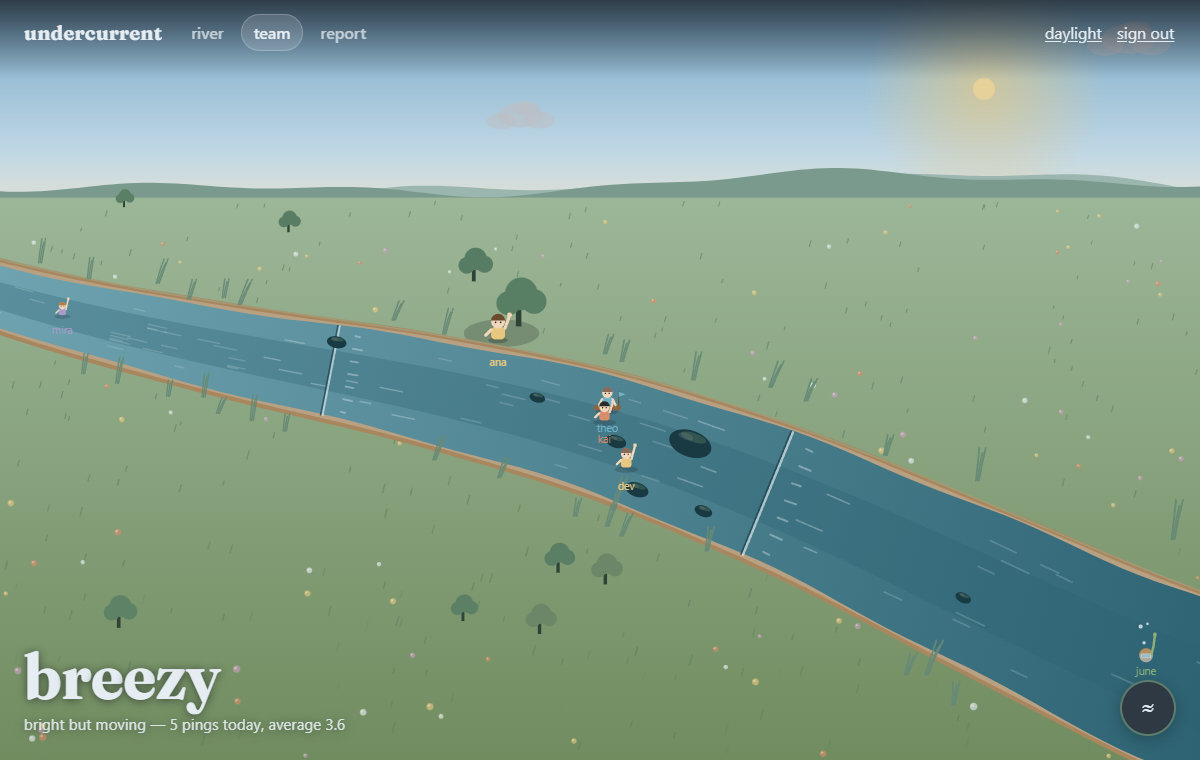
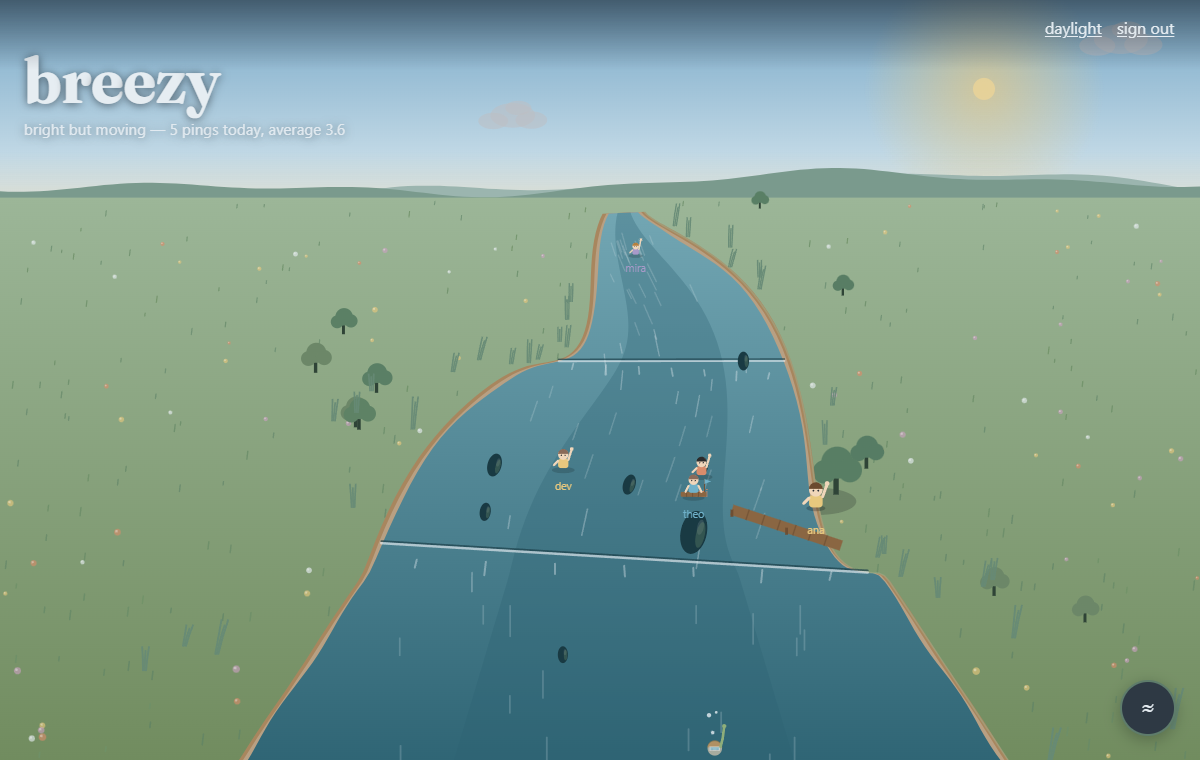
River toward the viewer: final form, dock, placement beside the panel
- Path generator: narrow at the horizon, wide at the bottom edge, eased
  depth drives scale and width; gentle meander confined to the upper
  65% with a sin-squared envelope so the offset banks never fold;
  foreground half-width capped by frame height.
- A small wooden dock off the right bank.
- Spots that would sit under the desktop panel move to the outer water
  beside it; upstream only as a last resort or on the phone sheet.
- Riverstone buttons read as stone in both themes; screenshots and
  notes refreshed.

diff --git a/src/river/RiverCanvas.tsx b/src/river/RiverCanvas.tsx
@@ -255,30 +255,36 @@ export default function RiverCanvas({
       const wind = Math.sin(t * 0.0011) * (0.3 + sev * 1.4) + sev * 0.9
 
       // --- the river path -------------------------------------------------
+      // The stream comes toward the viewer: a sliver at the horizon, wide at
+      // the bottom edge, meandering a little on the way down. Perspective is
+      // the eased `depth`, which also drives scale and width.
       const N = 80
       const path: Sample[] = []
-      // Where the stream ends: off the right edge normally; short of a side
-      // panel or bottom sheet when the layout has one.
-      const { rightInset, bottomInset } = layoutRef.current
-      const xEnd = rightInset > 0 ? w - rightInset + 24 : 1.06 * w
-      const bottomMargin = bottomInset > 0 ? bottomInset + 12 : h * (narrow ? 0.3 : 0.16)
+      const { bottomInset } = layoutRef.current
       for (let i = 0; i <= N; i++) {
         const u = i / N
+        const depth = u ** 1.15
+        // The meander lives in the narrow upper 65% and dies out smoothly
+        // (sin² has zero slope at its ends): an offset bank wider than the
+        // centerline's bend radius folds into a fin, so the wide foreground
+        // must run straight toward the viewer.
+        const envelope = Math.sin(Math.PI * Math.min(u / 0.65, 1)) ** 2
+        // gentle: the bend radius must stay larger than the bank offset
+        const meander =
+          (Math.sin(u * 3.2 + 0.6) * w * 0.05 + Math.sin(u * 7 + 2) * w * 0.012) * envelope
+        // foreground width scales with the frame but is capped by its height,
+        // so an ultra-wide screen doesn't become a delta
+        const hwMax = Math.min(w * 0.34, h * 0.55)
         path.push({
           u,
-          x: lerp(-0.06 * w, xEnd, u),
-          // narrow frames end the stream higher, clear of the scene caption
-          y:
-            horizon +
-            h * 0.07 +
-            Math.max(h * 0.25, h - horizon - bottomMargin) * u ** 1.08 +
-            Math.sin(u * 6.5 + 1.2) * h * 0.035,
+          x: w * 0.52 + meander,
+          y: horizon + h * 0.02 + (h - horizon + 30) * depth,
           tx: 0,
           ty: 0,
           nx: 0,
           ny: 0,
-          s: 0.55 + 0.7 * u,
-          hw: lerp(w * 0.022, w * 0.075, u) * (narrow ? 1.3 : 1),
+          s: 0.5 + 0.85 * depth,
+          hw: lerp(w * 0.012, hwMax, depth) * (narrow ? 1.15 : 1),
         })
       }
       for (let i = 0; i <= N; i++) {
@@ -309,6 +315,33 @@ export default function RiverCanvas({
           }
         }
         return { d: bd, sp: best }
+      }
+      // The stream runs under the panel/sheet, but people and landmarks
+      // stay above it: uMax is how far downstream anything placeable may go.
+      const limitY = h - (bottomInset > 0 ? bottomInset + 28 : 44)
+      let uMax = 1
+      for (const sp of path) {
+        if (sp.y > limitY) {
+          uMax = sp.u
+          break
+        }
+      }
+      uMax = Math.max(0.3, uMax - 0.04)
+      const bigTreeU = Math.min(BIG_TREE.u, uMax * 0.7)
+      const bigRockU = Math.min(BIG_ROCK.u, uMax * 0.78)
+      // A desktop panel only covers the middle of the wide foreground, so a
+      // spot that would sit under it moves to the outer water beside it; only
+      // when that's blocked too (or on a phone sheet) does it move upstream.
+      const panelHalf = Math.min(540, w * 0.92) / 2 + 16
+      const blocked = (q: { x: number; y: number }) =>
+        bottomInset > 0 &&
+        q.y > limitY &&
+        (narrow || (q.x > w / 2 - panelHalf && q.x < w / 2 + panelHalf))
+      const place = (u: number, lane: number) => {
+        let q = pointAt(u, lane)
+        if (blocked(q) && !narrow) q = pointAt(u, (lane < 0 ? -1 : 1) * 0.95)
+        if (blocked(q)) q = pointAt(Math.min(u, uMax), lane)
+        return q
       }
 
       // --- sky ------------------------------------------------------------
@@ -432,7 +465,7 @@ export default function RiverCanvas({
         if (x < -30 || x > w + 30 || y < horizon + 8 || y > h + 10) continue
         trees.push({ x, y, s: (0.5 + sp.s * 0.6) * tr.size, shade: tr.shade, big: false })
       }
-      const bigSp = sampleAt(BIG_TREE.u)
+      const bigSp = sampleAt(bigTreeU)
       const bigDist = bigSp.hw + 34 * bigSp.s
       const bigTree: Tree = {
         x: bigSp.x + bigDist * bigSp.nx,
@@ -613,7 +646,39 @@ export default function RiverCanvas({
         return { x, y, size, sp }
       }
       for (const rk of scenery.rocks) drawRock(rk.u, rk.lane, rk.size)
-      const bigRock = drawRock(BIG_ROCK.u, BIG_ROCK.lane, BIG_ROCK.size)
+      const bigRock = drawRock(bigRockU, BIG_ROCK.lane, BIG_ROCK.size)
+
+      // a small wooden dock off the right bank
+      {
+        const dockU = Math.min(0.5, uMax * 0.85)
+        const a = pointAt(dockU, 1.1)
+        const b = pointAt(dockU, 0.5)
+        const dw = 12 * a.sp.s
+        ctx.strokeStyle = WOOD
+        ctx.lineWidth = dw
+        ctx.lineCap = 'butt'
+        ctx.beginPath()
+        ctx.moveTo(a.x, a.y)
+        ctx.lineTo(b.x, b.y)
+        ctx.stroke()
+        ctx.strokeStyle = WOOD_DARK
+        ctx.lineWidth = 1
+        for (let k = 1; k < 7; k++) {
+          const f = k / 7
+          const px = lerp(a.x, b.x, f)
+          const py = lerp(a.y, b.y, f)
+          ctx.beginPath()
+          ctx.moveTo(px - (a.sp.tx * dw) / 2, py - (a.sp.ty * dw) / 2)
+          ctx.lineTo(px + (a.sp.tx * dw) / 2, py + (a.sp.ty * dw) / 2)
+          ctx.stroke()
+        }
+        ctx.fillStyle = WOOD_DARK
+        for (const f of [0.5, 1]) {
+          const px = lerp(a.x, b.x, f)
+          const py = lerp(a.y, b.y, f)
+          ctx.fillRect(px - 1.6 * a.sp.s, py, 3.2 * a.sp.s, 8 * a.sp.s)
+        }
+      }
 
       // reeds along both banks
       for (const rd of scenery.reeds) {
@@ -700,11 +765,11 @@ export default function RiverCanvas({
           // shared water spots fan out along the current, so everyone stays
           // on the stream line instead of drifting onto a bank or under a panel
           case 'headwater': {
-            const { x, y, sp } = pointAt(0.1, 0)
+            const { x, y, sp } = place(0.1, 0)
             return { x: x + fan(k, n) * sp.tx * sp.s, y: y + fan(k, n) * sp.ty * sp.s, s: sp.s, onLand: false }
           }
           case 'rapids': {
-            const { x, y, sp } = pointAt(0.47, 0.3)
+            const { x, y, sp } = place(0.47, 0.3)
             return { x: x + fan(k, n) * sp.tx * sp.s, y: y + fan(k, n) * sp.ty * sp.s, s: sp.s, onLand: false }
           }
           case 'rock': {
@@ -721,11 +786,11 @@ export default function RiverCanvas({
             return { x: bigTree.x - 12 * bigTree.s + fan(k, n) * s, y: bigTree.y + 6 * bigTree.s, s, onLand: true }
           }
           case 'shallows': {
-            const { x, y, sp } = pointAt(narrow ? 0.64 : 0.74, -0.82)
+            const { x, y, sp } = place(0.8, -0.82)
             return { x: x + fan(k, n) * sp.tx * sp.s, y: y + fan(k, n) * sp.ty * sp.s, s: sp.s, onLand: false }
           }
           case 'eddy': {
-            const { x, y, sp } = pointAt(narrow ? 0.82 : 0.9, 0.25)
+            const { x, y, sp } = place(0.9, 0.25)
             return { x: x + fan(k, n) * sp.tx * sp.s, y: y + fan(k, n) * sp.ty * sp.s, s: sp.s, onLand: false }
           }
           default:
@@ -744,8 +809,8 @@ export default function RiverCanvas({
       const drifters = bySpot.get('drift') ?? []
       const lanes = narrow ? [-0.55, 0.55, 0] : [-0.4, 0.4, 0, -0.2, 0.2]
       drifters.forEach((m, k) => {
-        const u = 0.14 + ((k + 0.5) / drifters.length) * 0.78
-        const { x, y, sp } = pointAt(u, lanes[k % lanes.length])
+        const u = 0.14 + ((k + 0.5) / drifters.length) * 0.74
+        const { x, y, sp } = place(u, lanes[k % lanes.length])
         placed.push({ m, x, y, s: sp.s, onLand: false, i: gi++ })
       })
 

diff --git a/src/hud.css b/src/hud.css
@@ -236,7 +236,7 @@
   width: 54px;
   height: 54px;
   border: none;
-  background: var(--silt);
+  background: radial-gradient(circle at 35% 30%, #5d6a77, #2e3944 72%);
   color: var(--foam);
   cursor: pointer;
   transition: all 0.3s cubic-bezier(0.16, 1, 0.3, 1);
@@ -253,7 +253,7 @@
 }
 
 :root[data-theme='light'] .mood-stone {
-  background: #cfd8de;
+  background: radial-gradient(circle at 35% 30%, #e6ebef, #b7c2ca 75%);
   color: var(--foam);
 }
 

diff --git a/NOTES.md b/NOTES.md
@@ -349,6 +349,27 @@ floating over it and riverstone mood selectors. Adapted rather than pasted:
   style. That's an image; ours is drawn live so the weather, spots, and poses
   can change in every open window — the whole point of the app.
 
+### The river, final form (Fri late morning): toward the viewer
+
+The developer preferred the mockup's river running toward the viewer. Because
+the scene is built on a sampled path, that was a change to the path generator
+(narrow at the horizon, wide at the bottom edge, perspective scale from an
+eased depth), not a rewrite — banks, reeds, drops, rocks, flow, and spots all
+followed. Added a small wooden dock off the right bank.
+
+Two offset-curve lessons, both found by screenshots at several widths:
+
+- **A bank folds into a fin when the half-width exceeds the centerline's bend
+  radius.** First fix (fade the meander to zero at the bottom) moved the fold
+  upstream into a hook. Real fix: a gentle meander confined to the narrow
+  upper 65% with a sin² envelope (zero slope at its end), and the foreground
+  half-width capped by frame height so ultra-wide screens don't get a delta.
+- **Placement vs. panels.** On desktop the panel only covers the middle of
+  the wide foreground, so a spot that would sit under it moves to the outer
+  water beside it; only if that's blocked too (or on a phone sheet) does it
+  move upstream. People in the foreground beside the panel read like the
+  mockup's characters. Shared water spots fan along the current.
+
 ### Color and character (Fri ~4:30 AM): the people stop being stick figures
 
 The developer's last note: still too plain, characters too basic, more color.
